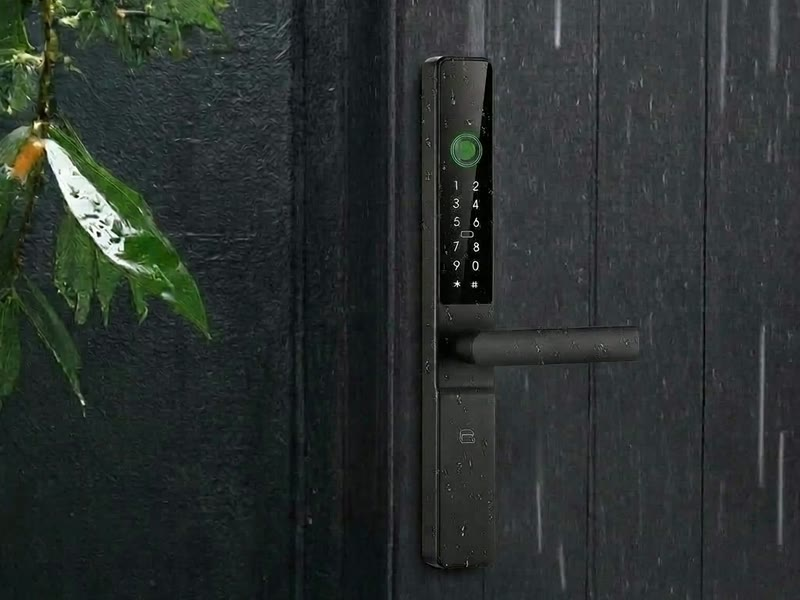
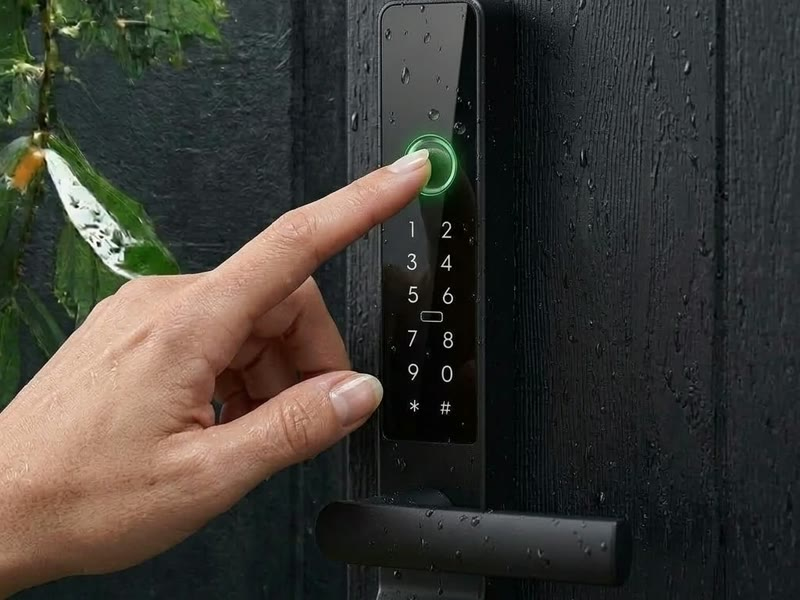
Fotos oficiales Demasled y fotos del catálogo que se agrandan
- Cerradura exterior y tiras LED 12V/24V con fotos de demasled.com.ar
- Tocar la foto de un producto la abre grande con el nombre y el precio
  abajo, chico; las flechas pasan a los otros productos a la vista

diff --git a/script.js b/script.js
@@ -1240,7 +1240,14 @@ document.addEventListener('DOMContentLoaded', function () {
     if (!foto || !visorImg) return;
     visorImg.src = foto.src;
     visorImg.alt = foto.alt || '';
-    if (visorPie) visorPie.textContent = foto.titulo || '';
+    if (visorPie) {
+      visorPie.textContent = foto.titulo || '';
+      if (foto.detalle) {
+        const chico = document.createElement('small');
+        chico.textContent = foto.detalle;
+        visorPie.appendChild(chico);
+      }
+    }
 
     const variasFotos = visorFotos.length > 1;
     if (visorAnteriorBtn) visorAnteriorBtn.hidden = !variasFotos;
@@ -1248,8 +1255,9 @@ document.addEventListener('DOMContentLoaded', function () {
     pintarMiniaturasVisor();
   };
 
-  const abrirVisor = function (fotos, indice) {
+  const abrirVisor = function (fotos, indice, modo) {
     if (!visor || !fotos.length) return;
+    visor.dataset.modo = modo || '';
     visorOrigen = document.activeElement;
     visorFotos = fotos;
     visorIndice = indice;
@@ -1291,6 +1299,30 @@ document.addEventListener('DOMContentLoaded', function () {
       if (e.target === visor) cerrarVisor();
     });
   }
+
+  document.addEventListener('click', function (e) {
+    const img = e.target.closest('.producto figure img');
+    if (!img || !img.classList.contains('cargada')) return;
+    const grilla = img.closest('#grilla-equipos, #destacados');
+    if (!grilla) return;
+    if (grilla.dataset.arrastro) return; // fue un arrastre, no un toque
+    const visibles = Array.prototype.filter.call(grilla.querySelectorAll('.producto'), function (li) {
+      return !li.hidden && li.offsetParent !== null && li.querySelector('figure img');
+    });
+    const fotos = visibles.map(function (li) {
+      const im = li.querySelector('figure img');
+      const precio = parseFloat(li.dataset.precio) || 0;
+      const unidad = li.dataset.unidad === 'm' ? ' por metro' : '';
+      const ilustrativa = li.querySelector('.producto__ilustrativa') ? ' · Foto ilustrativa' : '';
+      return {
+        src: im.currentSrc || im.src,
+        alt: im.alt,
+        titulo: li.dataset.nombre || '',
+        detalle: (precio ? formatoPrecio(precio) + unidad : 'Consultar precio') + ilustrativa
+      };
+    });
+    abrirVisor(fotos, Math.max(0, visibles.indexOf(img.closest('.producto'))), 'producto');
+  });
 
   document.addEventListener('keydown', function (e) {
     if (!visor || !visor.classList.contains('abierto')) return;

diff --git a/style.css b/style.css
@@ -2154,6 +2154,30 @@ html:not(.js) .carrito {
   color: var(--blanco);
 }
 .visor__figura figcaption:empty { display: none; }
+/* el detalle va chico y suave, abajo del nombre */
+.visor__figura figcaption small {
+  display: block;
+  margin-top: 4px;
+  font-family: var(--texto);
+  font-size: .85rem;
+  font-weight: 500;
+  color: var(--hielo);
+  opacity: .9;
+}
+/* productos: pie más sutil, foto sobre blanco (como en el catálogo) y sin
+   tira de miniaturas */
+.visor[data-modo="producto"] .visor__figura figcaption {
+  max-width: 560px;
+  margin: 12px auto 0;
+  font-size: .95rem;
+  font-weight: 500;
+  color: rgba(255, 255, 255, .88);
+}
+.visor[data-modo="producto"] .visor__figura img { background: var(--blanco); }
+.visor[data-modo="producto"] .visor__miniaturas { display: none; }
+/* las fotos del catálogo se pueden agrandar */
+#grilla-equipos .producto figure img.cargada,
+#destacados .producto figure img.cargada { cursor: zoom-in; }
 
 .visor__miniaturas {
   display: flex;
